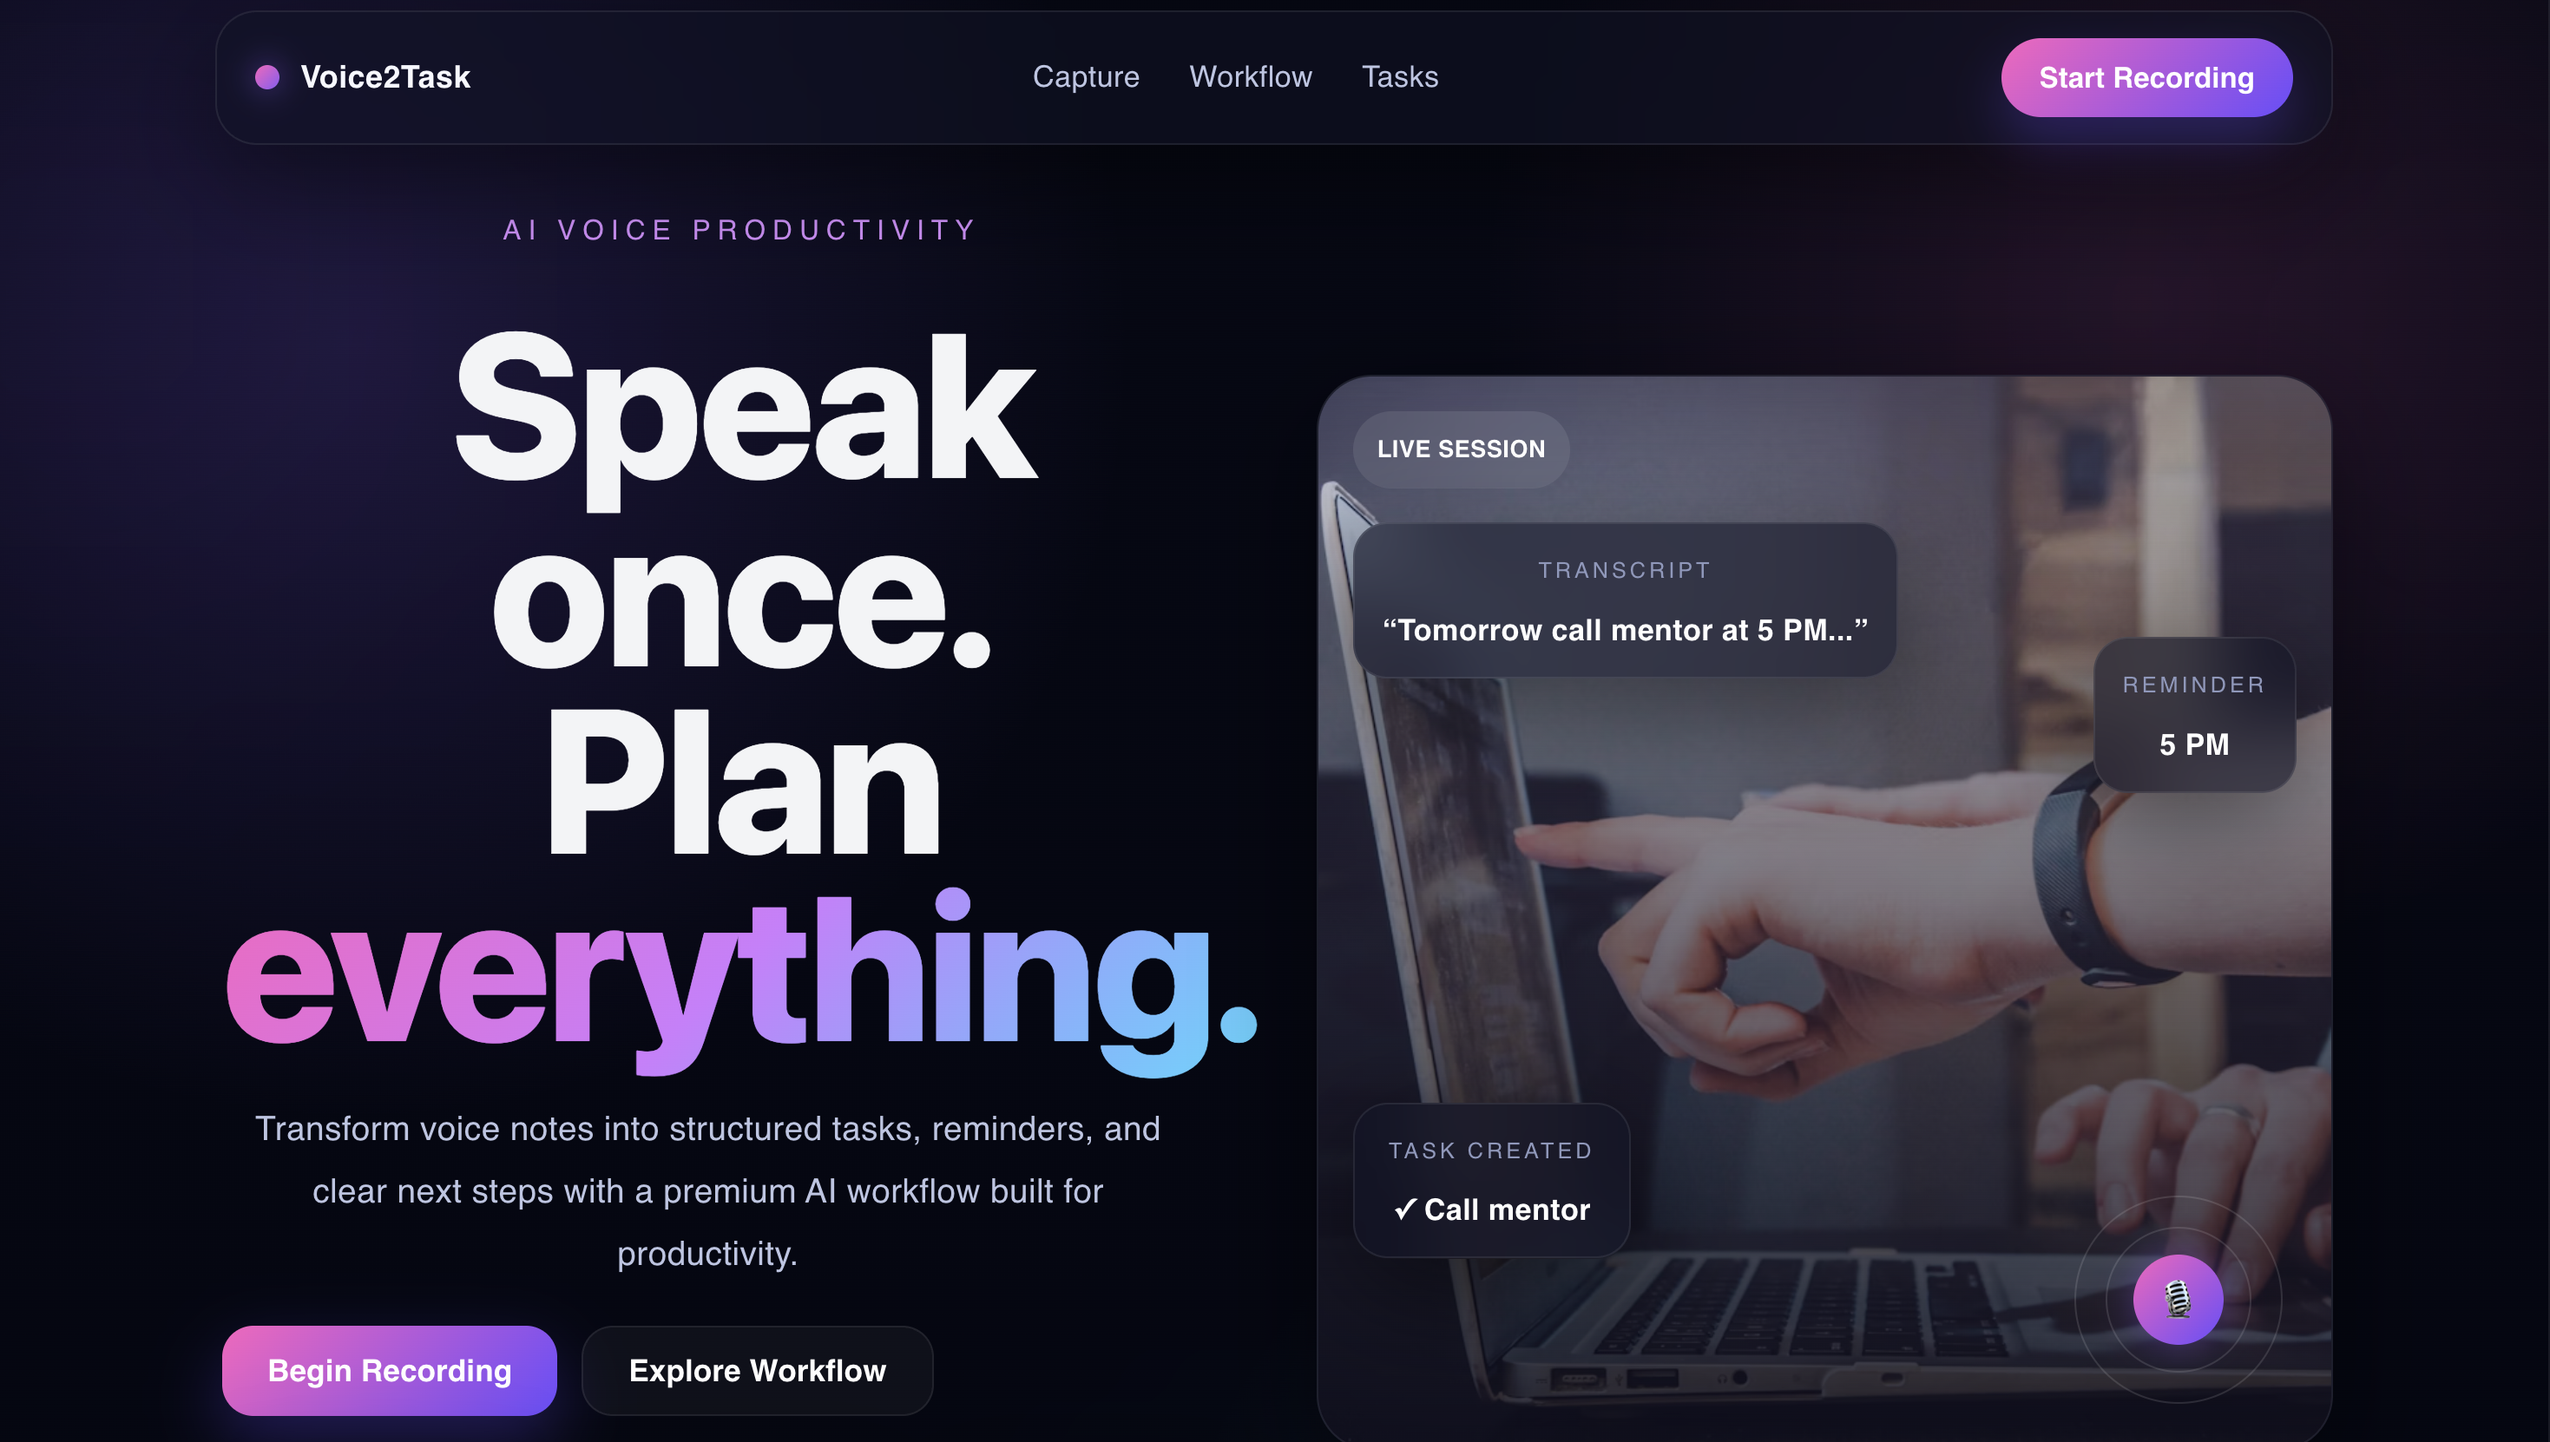
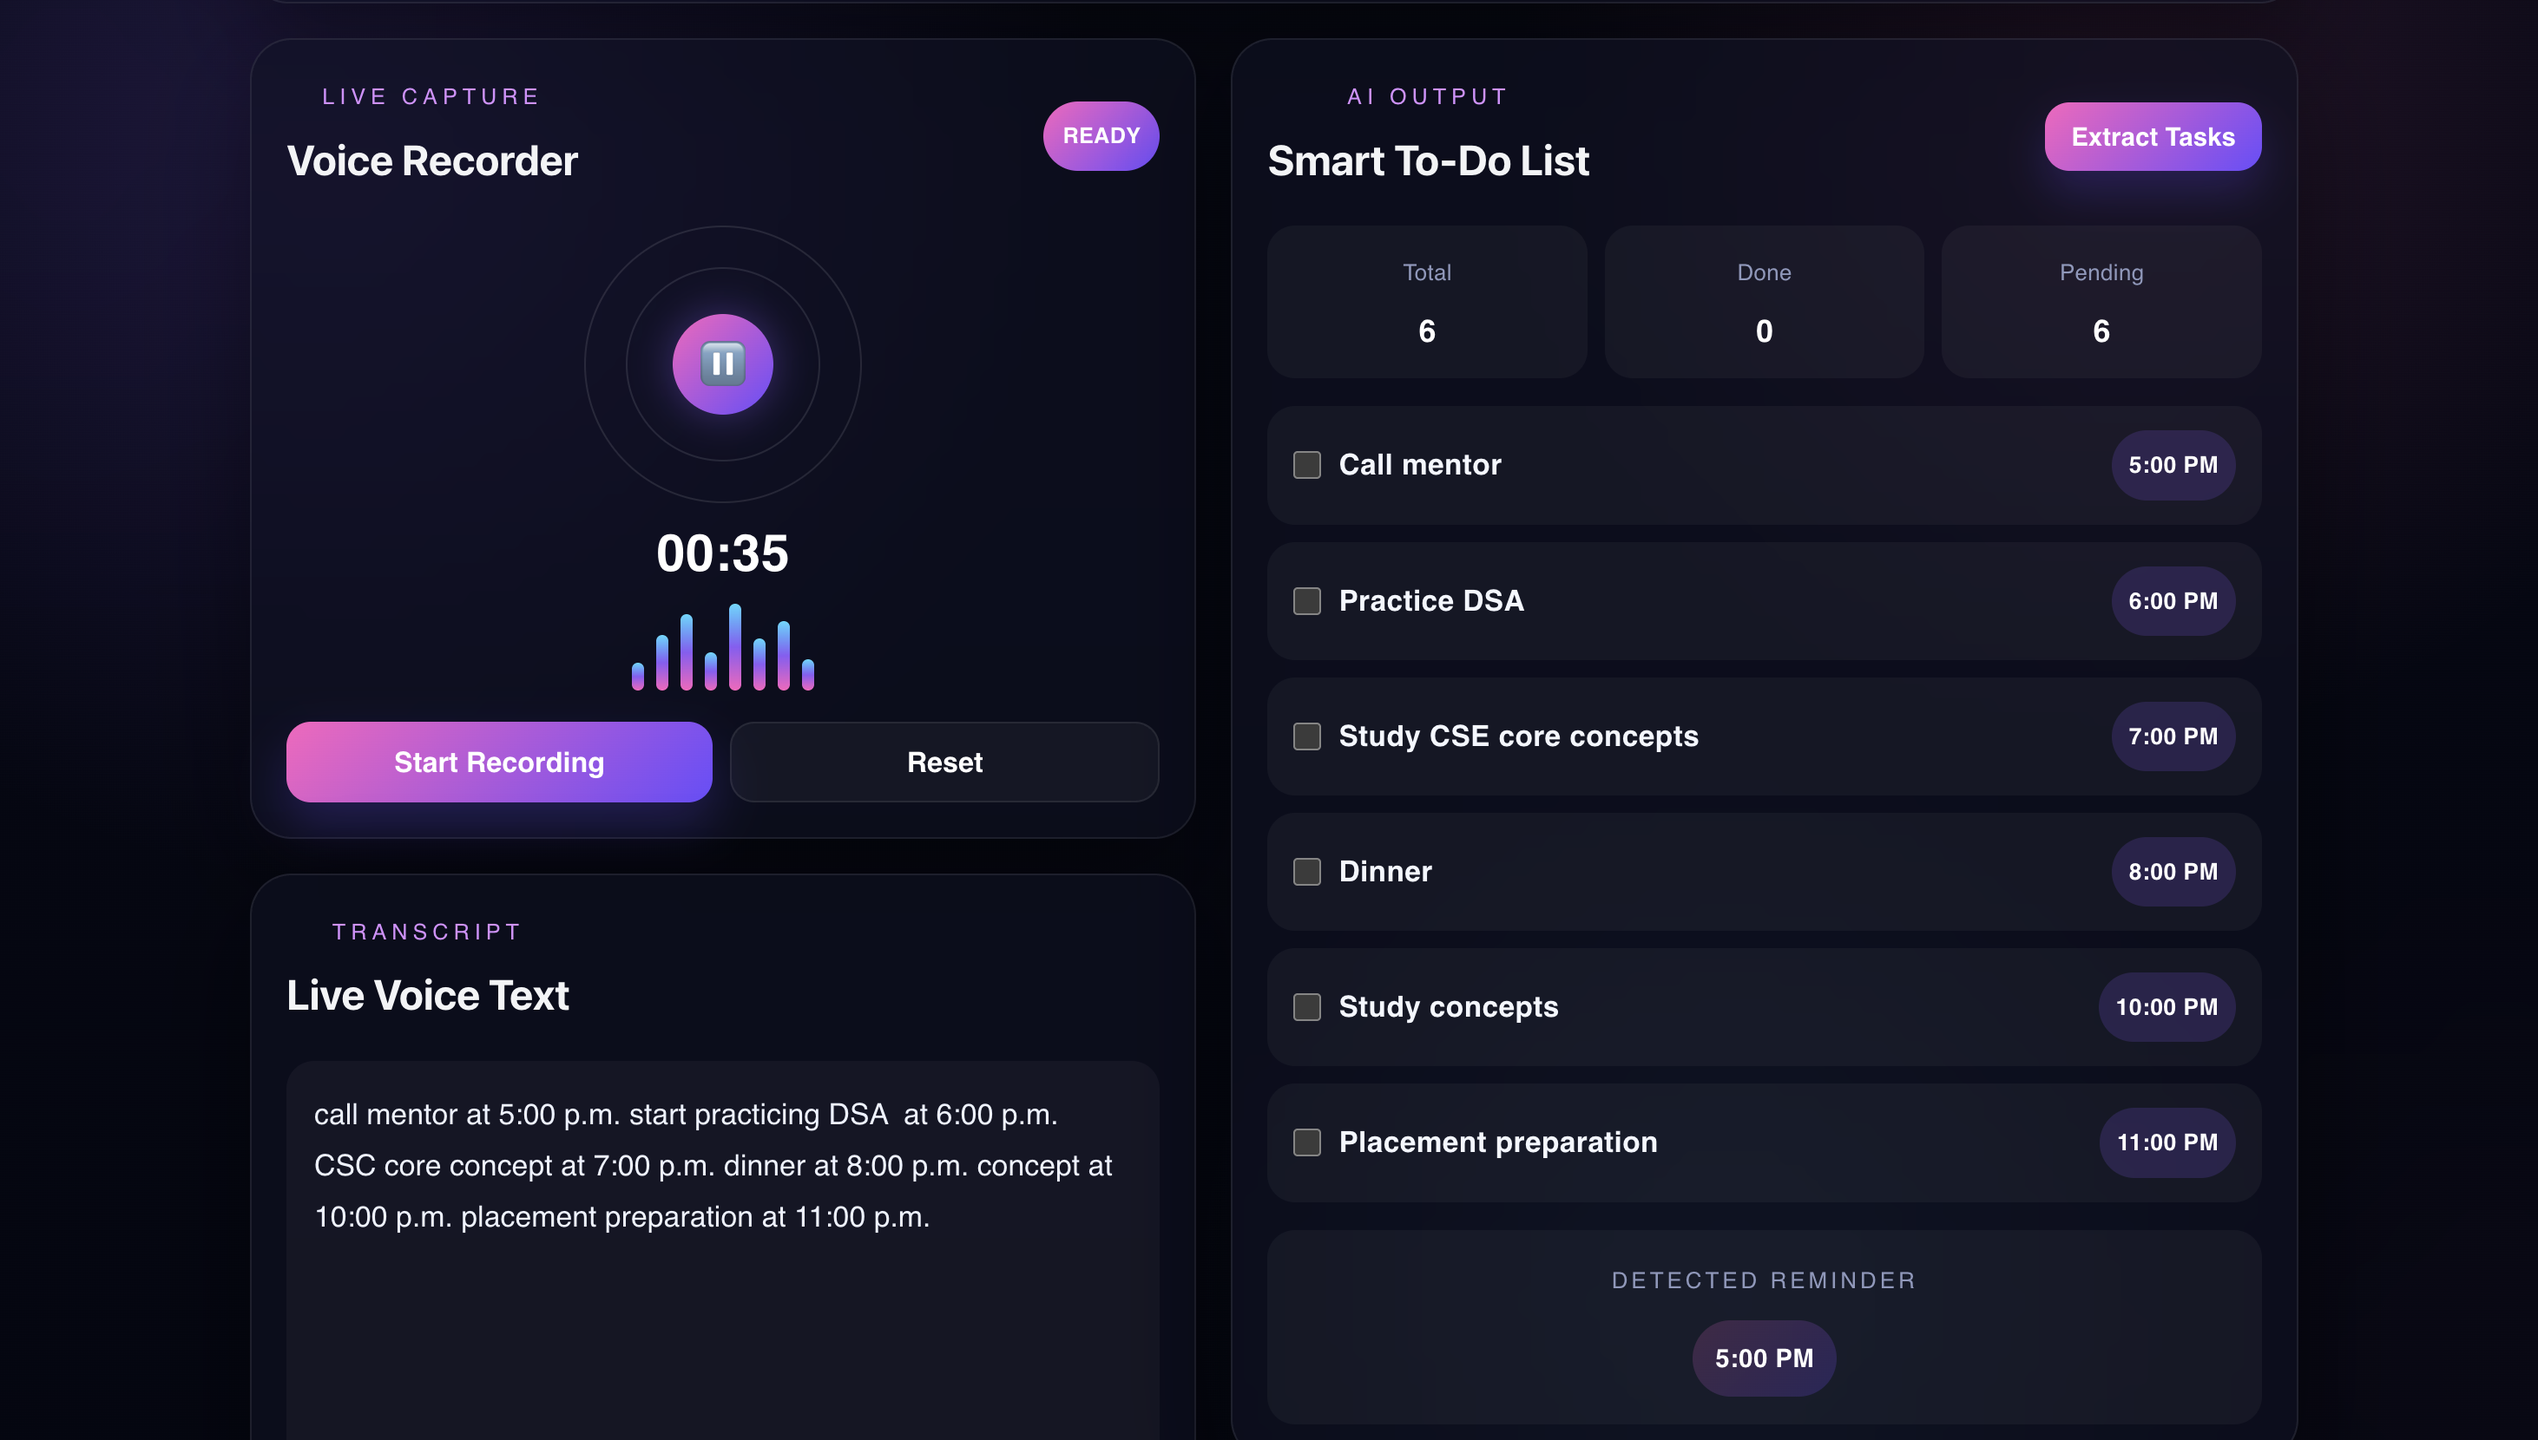
Update README and project screenshots

diff --git a/README.md b/README.md
@@ -1,60 +1,73 @@
 # Voice2Task 🎙✨
 
-Voice2Task is an AI-powered productivity web application that converts live voice notes into structured to-do tasks with real-time speech recognition, task extraction, and reminder detection.
+> Speak once. Plan everything.
 
-It is designed to help users quickly capture spoken thoughts and transform them into an actionable task list through a clean and aesthetic interface.
+Voice2Task is an AI-powered productivity web application that converts natural voice input into structured tasks, schedules, and reminders.
 
----
+Instead of manually writing down everything you need to do, simply speak naturally. Voice2Task processes the transcript using AI, identifies actionable tasks and associated times, and organizes them into a clean smart to-do list.
 
-## 🚀 Features
-
-- 🎤 Real-time voice recording in the browser
-- 📝 Live speech-to-text transcription
-- ✅ Smart task extraction from spoken input
-- ⏰ Time-based reminder detection
-- 📋 Interactive to-do list with completion tracking
-- 🎨 Modern dark-themed UI with premium aesthetic styling
-- ⚡ Fast frontend-backend communication using React + FastAPI
+The application also uses Supabase authentication and database storage so each user's tasks and productivity data can be persisted securely.
 
 ---
 
-## 📸 Screenshots
+## ✨ Features
 
-### 1. Landing / Main Screen
-![Landing Screen](./screenshots/landing_page.png)
+### 🎙 Voice Capture
+Record your thoughts, plans, and reminders using natural voice input.
 
-### 2. Live Recording in Progress
-![Recording Screen](./screenshots/app_screen.png)
+### 📝 Live Transcript
+Convert spoken input into readable text before task extraction.
 
-### 3. Extracted Tasks Output
-![Tasks Output](./screenshots/final_page.png)
+### 🧠 AI Task Extraction
+The AI analyzes the transcript and identifies actionable tasks from natural language.
 
----
+### ⏰ Intelligent Time Detection
+Detects time information such as:
 
-## 🛠 Tech Stack
+- 5 PM
+- 7:30 PM
+- tomorrow morning
+- from 5 to 6 PM
+- at 9 PM
 
-### Frontend
-- React.js
-- CSS3
-- Web Speech API / Browser Speech Recognition
+and associates detected times with the relevant tasks.
 
-### Backend
-- FastAPI
-- Python
-- Regex-based task parsing logic
-- Uvicorn
+### ✅ Smart To-Do List
+Extracted tasks are displayed as structured to-do items with:
 
----
+- Task name
+- Time
+- Completion status
+- Pending status
 
-## ⚙ Project Structure
+### 🔐 User Authentication
+Users can create an account and sign in using Supabase Authentication.
+
+### 🗄 Persistent Database Storage
+Tasks and user-related productivity data are stored in Supabase so that data is not lost when the page is refreshed or reopened.
+
+### 👤 User-Specific Data
+Each authenticated user can access their own tasks and productivity data.
+
+### 🌐 Full-Stack Architecture
+
+The application follows a modern frontend-backend architecture:
 
 ```text
-voice2task/
-├── frontend/
-├── backend/
-├── screenshots/
-│   ├── landing_page.png
-│   ├── app_screen.png
-│   └── final_page.png
-├── README.md
-└── .gitignore
+User
+  │
+  ▼
+React + Vite Frontend
+  │
+  ├──────────────► Supabase Auth
+  │
+  ├──────────────► Supabase Database
+  │
+  ▼
+FastAPI Backend
+  │
+  ▼
+Google Gemini API
+  │
+  ▼
+Structured Tasks
